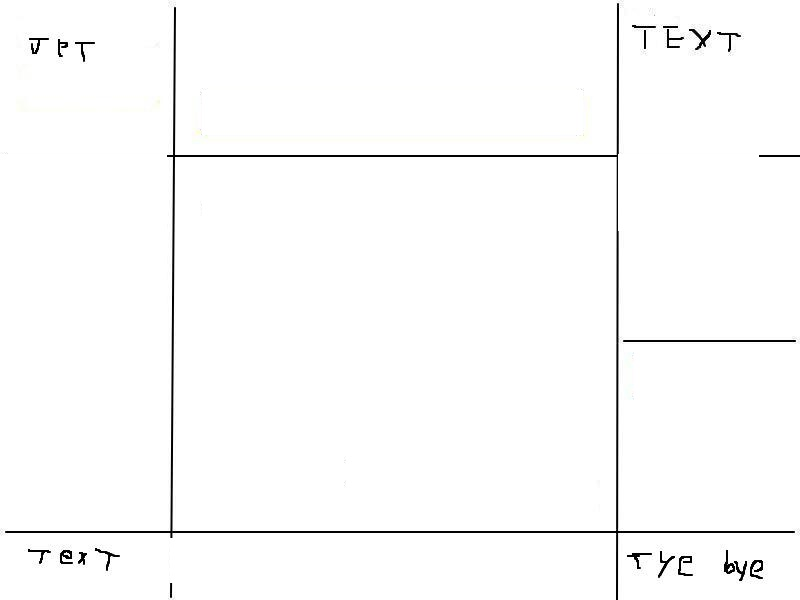
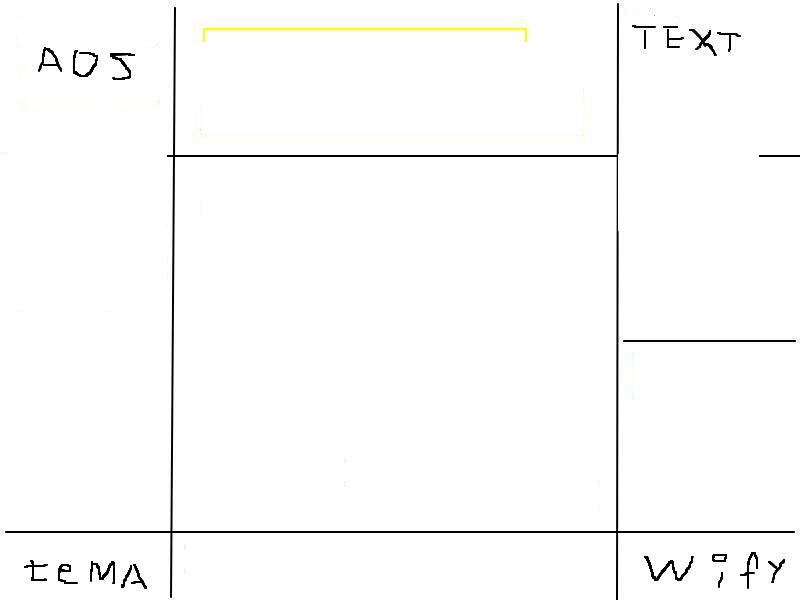
modified : 'textwedget-noise-error' fix

diff --git a/html/sketch2html_result_1538156341263.html b/html/sketch2html_result_1538156341263.html
@@ -1,6 +1,6 @@
 <html>
 <head><META HTTP-EQUIV=Expires CONTENT=Mon, 06 Jan 1990 00:00:01 GMT><META HTTP-EQUIV=Expires CONTENT=-1><META HTTP-EQUIV=Pragma CONTENT=no-cache><META HTTP-EQUIV=Cache-Control CONTENT=no-cache>
-<link rel=stylesheet type=text/css href="sketch2html_result_1538129937795.css" />
+<link rel=stylesheet type=text/css href="sketch2html_result_1538156341263.css" />
 <link rel="stylesheet" href="https://maxcdn.bootstrapcdn.com/bootstrap/3.3.7/css/bootstrap.min.css">
 <script src="https://ajax.googleapis.com/ajax/libs/jquery/3.3.1/jquery.min.js"></script>
 <script src="https://maxcdn.bootstrapcdn.com/bootstrap/3.3.7/js/bootstrap.min.js"></script>
@@ -8,24 +8,24 @@
 <body>
 	<div id = "div0">
 		<div id = "div1">
-		<span>TPL</span>
+		<span>ADY</span>
 		</div>
 		<div id = "div2">
 		<input type = "text" id = "editText4"/>
+		<br>
+		<input type = "text" id = "editText3"/>
 		</div>
 		<div id = "div3">
-		<span>TEYT</span>
+		<span>TEXT</span>
 		</div>
 	</div>
 	<div id = "div4">
 		<div id = "div5">
-		<input type = "text" id = "editText3"/>
-		<br>
 		<input type = "text" id = "editText2"/>
 		<br>
-		<button type = "button" class = "btn btn-primary" id = "button4"></button>
-		<br>
 		<input type = "text" id = "editText1"/>
+		<br>
+		<button type = "button" class = "btn btn-primary" id = "button4"></button>
 		</div>
 		<div id = "div6">
 		<input type="radio" id = "radioButton2"/><label>radio</label>
@@ -55,13 +55,13 @@
 	</div>
 	<div id = "div10">
 		<div id = "div11">
-		<span>Texy</span>
+		<span>crema</span>
 		</div>
 		<div id = "div12">
 		<input type = "text" id = "editText5"/>
 		</div>
 		<div id = "div13">
-		<span>TEbe</span>
+		<span>Wwify</span>
 		</div>
 	</div>
 

diff --git a/html/sketch2html_result_1538156341263.css b/html/sketch2html_result_1538156341263.css
@@ -146,24 +146,24 @@
 #radioButton2{
 	margin : 10px;
 }
-#editText1{
-	margin : 10px;
-	width : 100px;
-	height : 25px;
-	border : 3px solid none;
-	border-radius : 5px;
-}
-#editText1:focus{
-	border : 3px solid none;
-}
-#editText1:hover{
-	border : 3px solid none;
-}
 #button4{
 	margin : 10px;
 	width : 100px;
 	height : 25px;
 	background-color : btn btn-primary;
+}
+#editText1{
+	margin : 10px;
+	width : 100px;
+	height : 25px;
+	border : 3px solid #0099ff;
+	border-radius : 5px;
+}
+#editText1:focus{
+	border : 3px solid blue;
+}
+#editText1:hover{
+	border : 3px solid blue;
 }
 #editText2{
 	margin : 10px;
@@ -178,25 +178,25 @@
 #editText2:hover{
 	border : 3px solid blue;
 }
-#editText3{
-	margin : 10px;
-	width : 100px;
-	height : 25px;
-	border : 3px solid #0099ff;
-	border-radius : 5px;
-}
-#editText3:focus{
-	border : 3px solid blue;
-}
-#editText3:hover{
-	border : 3px solid blue;
-}
 #ocrtext0{
 	margin : 10px;
 }
-#editText4{
+#editText3{
 	margin : 10px;
 	width : 300px;
+	height : 25px;
+	border : 3px solid #ffeb99;
+	border-radius : 5px;
+}
+#editText3:focus{
+	border : 3px solid orange;
+}
+#editText3:hover{
+	border : 3px solid orange;
+}
+#editText4{
+	margin : 10px;
+	width : 400px;
 	height : 25px;
 	border : 3px solid #ffeb99;
 	border-radius : 5px;

diff --git a/layoutDetection.py b/layoutDetection.py
@@ -314,13 +314,15 @@ class Html:
                 return result * threshold
 
     def objectAppendStack(self, detectedObjects):
+        layoutObjects = []
         for item in detectedObjects[0][1][0]:
             if item[0].lower() != "text":
                 self.onlyTextimg = self.im_trim(self.onlyTextimg, item)
-        layoutObjects = []
         textarray = findText.findText(self.onlyTextimg, "findpos")
-        for text in textarray:
-            detectedObjects[0][1][0].append(text)
+        if textarray != None:
+            for text in textarray:
+                if text[0].lower() == "ocrtext":
+                    detectedObjects[0][1][0].append(text)
         for item in detectedObjects[0][1][0]:
             ox1, oy1, ox2, oy2 = int(item[1][0]), int(item[1][1]), int(item[1][2]), int(item[1][3])
             type = item[0]
@@ -443,7 +445,6 @@ class Html:
                         self.addHtmlList(str(layoutObject[1]), self.objectNum[str(layoutObject[1])], None, i + 1)
                     elif layoutObject[1] == "ocrtext":
                         roiImg = self.img[layoutObject[2][1]: layoutObject[2][3], layoutObject[2][0]: layoutObject[2][2]]
-                        cv2.imwrite("test.jpg", roiImg)
                         ocrtext = findText.findText(roiImg)[0][0]
                         self.addCssList("#" + str(layoutObject[1]) + str(self.objectNum[str(layoutObject[1])]),
                                         [{'margin': '10px'}])

diff --git a/findText.py b/findText.py
@@ -16,10 +16,20 @@ def findText(img, mode = "default", offset = 10):
     gray = cv2.cvtColor(img, cv2.COLOR_BGR2GRAY) #Converting to GrayScale
     text = cleanText(pytesseract.image_to_boxes(gray, config="--psm 11 --oem 1"))
     text = text.split("\n")
+    if text[0] == '':
+        return None
     array = []
     for m in text:
         info = m.split(" ")
         x1, y1, x2, y2 = int(info[1]) - offset, int(height - int(info[4])) - offset, int(info[3]) + offset, int(height - int(info[2])) + offset
+        if x1 < 0:
+            x1 = 0
+        elif y1 < 0:
+            y1 = 0
+        elif x2 > 800:
+            x2 = 800
+        elif y2 > 600:
+            y2 = 600
         info = [info[0], [x1, y1, x2, y2]]
         array.append(info)
     index = 0

diff --git a/mser.py b/mser.py
@@ -3,6 +3,10 @@ import re
 import cv2
 import random
 import numpy as np
+import pytesseract
+
+width = 800
+height = 600
 
 def mser(roi_img):
     ## Read image and change the color space
@@ -37,6 +41,7 @@ def mser(roi_img):
         if item>(avg/2):
             objectCountor+=1
     return objectCountor
+
 
 if __name__=='__main__':
     origin = cv2.imread("./html/radioButtonV.jpg")
